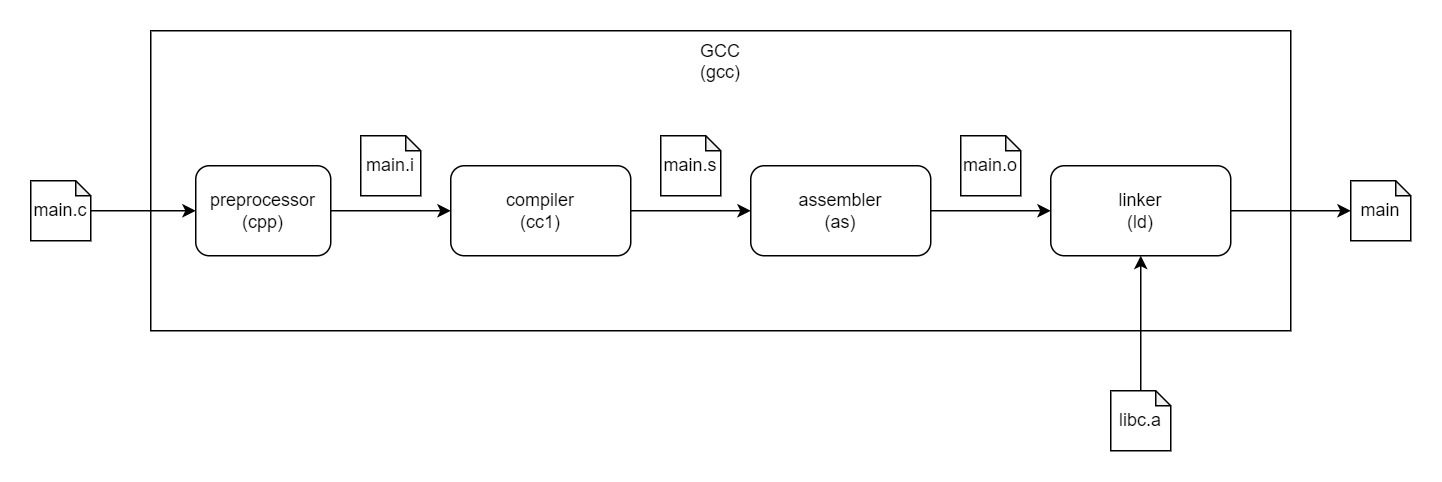
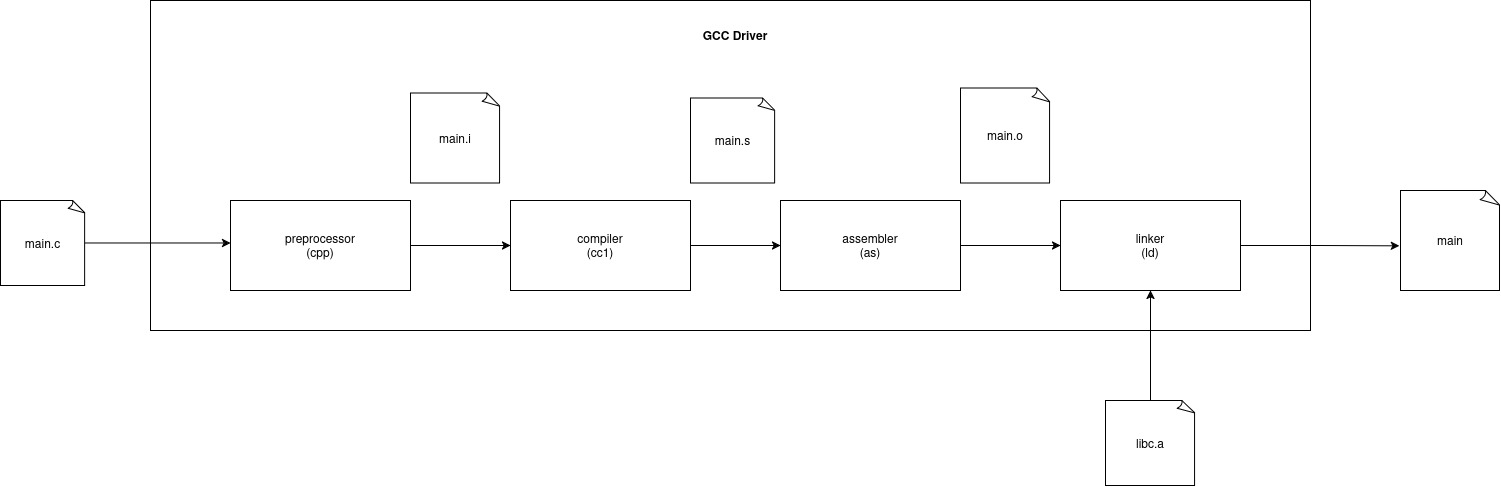
Minor image update

diff --git a/doc/ghid.tex b/doc/ghid.tex
@@ -46,13 +46,13 @@ a incarca fisierul de trace si a începe simularea.
 \begin{figure}[H]
 	\centering
 	\includegraphics[width=0.7\textwidth]{images/dark_ui.png}
-	\caption{Interfata grafica setat pe modul Dark}
+	\caption{Interfata grafica setata pe modul Dark}
 \end{figure}
 
 \begin{figure}[H]
 	\centering
 	\includegraphics[width=0.7\textwidth]{images/light_ui.png}
-	\caption{Interfata grafica setat pe modul Light}
+	\caption{Interfata grafica setata pe modul Light}
 \end{figure}
 
 \begin{figure}[H]
@@ -95,28 +95,106 @@ Din perspectiva utilizatorului este de ajuns pentru folosi fisierul antet \texti
 #include "bp.h"
 \end{verbatim}
 
-Stiind acum acestea se pune problema de a rula simulator ce incorporeaza predictorul de salturi dezvoltat de noi. Spre norocul utilizatorului, acesta are de asemenea la dispozitia acestuia un mic script in BASH ce compileaza si ruleaza cu o configuratie implicit selectata.
+Stiind acum acestea se pune problema de a rula simulator ce incorporeaza predictorul de salturi dezvoltat de noi. Spre norocul utilizatorului, acesta are de asemenea la dispozitia sa un mic script in BASH ce compileaza si ruleaza cu o configuratie implicit selectata.
 
 \begin{verbatim}
 	#!/bin/bash
 	
-	if [ -z "$1" ]; then
+	# Usage:
+	#   ./gen                        - configure (cmake)
+	#   ./gen b                      - build
+	#   ./gen <benchmark> r          - run default config for benchmark
+	#   ./gen <benchmark> c1..c9     - run named config for benchmark
+	#   ./gen <benchmark> all        - run all configs for benchmark
+	#
+	# Benchmarks: applu | cc1 | mgrid | compress | ijpeg
+	#
+	# OGHEL predictor params: -bpred:oghel <num_tables> <table_size> <counter_len>
+	# Defaults:               num_tables=7  table_size=2048  counter_len=4
+	
+	BASE_CMD="./build/sim-bpred -max:inst 500000000 -nice 1 -bpred oghel"
+	
+	# ---- benchmark selection ----
+	BENCHMARK="${1}"
+	case "$BENCHMARK" in
+	applu)    SS_FILE="applu.ss";       IN_FILE="applu.in"   ;;
+	cc1)      SS_FILE="cc1.ss";         IN_FILE="1stm.i"   ;;
+	mgrid)    SS_FILE="mgrid.ss";       IN_FILE="mgrid.in"   ;;
+	compress) SS_FILE="compress95.ss";  IN_FILE="bigtest.in" ;;
+	ijpeg)    SS_FILE="ijpeg.ss";       IN_FILE="vgio.ppm"     ;;
+	b)
+	cmake --build build -j 12
+	exit 0
+	;;
+	"")
 	rm -rf build
 	cmake -S . -B build -G "Unix Makefiles"
-	elif [[ "$1" == "b" ]]; then
-	cmake --build build -j 12
-	elif [[ "$1" == "r" ]]; then
-	./build/sim-bpred \
-	  -redir:sim applu_simout.res \
-	  -redir:prog applu_progout.res \
-	  -max:inst 500000000 -nice 1 \
-	  -bpred oghel \
-	  ./inputs/ss_files/applu.ss \
-	  < ./inputs/in_files/applu.in
+	exit 0
+	;;
+	*)
+	echo "Unknown benchmark: $1"
+	echo "Usage: $0 [applu|cc1|mgrid|compress|ijpeg] [r|c1..c9|all]"
+	exit 1
+	;;
+	esac
+	
+	INPUT="./inputs/ss_files/${SS_FILE}"
+	STDIN="./inputs/in_files/${IN_FILE}"
+	mkdir -p "./results/${BENCHMARK}"
+	
+	run_config() {
+		local tag="$1"
+		local num_tables="$2"
+		local table_size="$3"
+		local counter_len="$4"
+		echo "=== ${BENCHMARK}/${tag}: num_tables=$num_tables  table_size=$table_size  counter_len=$counter_len ==="
+		$BASE_CMD \
+		-bpred:oghel $num_tables $table_size $counter_len \
+		-redir:sim  "./results/${BENCHMARK}/${tag}_simout.res" \
+		-redir:prog "./results/${BENCHMARK}/${tag}_progout.res" \
+		"$INPUT" < "$STDIN"
+	}
+	
+	CMD="${2:-r}"
+	
+	case "$CMD" in
+	r)   run_config default 7 2048 4 ;;
+	# ---------- named configurations ----------
+	#                       num_tables  table_size  counter_len
+	c1)  run_config c1   4   512   3 ;;  # min tables, small table, short counters
+	c2)  run_config c2   4  2048   4 ;;  # min tables, default size
+	c3)  run_config c3   7   512   3 ;;  # default tables, small table, short counters
+	c4)  run_config c4   7  2048   4 ;;  # default (baseline)
+	c5)  run_config c5   7  2048   5 ;;  # default tables/size, long counters
+	c6)  run_config c6   7  8192   4 ;;  # default tables, larger table
+	c7)  run_config c7  12  2048   4 ;;  # max tables, default size
+	c8)  run_config c8  12  8192   4 ;;  # max tables, larger table
+	c9)  run_config c9  12  8192   5 ;;  # max tables, larger table, long counters
+	all)
+	for cfg in c1 c2 c3 c4 c5 c6 c7 c8 c9; do
+	"$0" "$BENCHMARK" "$cfg"
+	done
+	;;
+	*)
+	echo "Unknown command: $CMD"
+	echo "Usage: $0 [applu|cc1|mgrid|compress|ijpeg] [r|c1..c9|all]"
+	exit 1
+	;;
+	esac
+	elif [[ "$1" == "all" ]]; then
+	for cfg in c1 c2 c3 c4 c5 c6 c7 c8 c9; do
+	"$0" "$cfg"
+	done
+	
+	else
+	echo "Unknown option: $1"
+	echo "Usage: $0 [b|r|c1..c9|all]"
+	exit 1
 	fi
+	
 \end{verbatim}
 
-Daca ar fi sa analizam un pic acest script vom putea observa ca acesta asteapta un argument pozitional la intrare (adica argument care este separat logic de catre celelalte prin pozitionarea acestuia in comanda intreaga de excutat; a se face contrast cu argumentele bazate pe flag.), acestuia putand fie "b" (de la \textit{build}) pentru a compila fie "r" (de la \textit{run}) pentru a rula. In functie de optiunea selectata logica corespunzatoare va fi executata.
+Daca ar fi sa analizam un pic acest script vom putea observa ca acesta asteapta argumente pozitionale la intrare (adica argumente care sunt separate logic intre ele prin pozitionarea acestuia in cadrul comanzii intreagi de excutat; a se face contrast cu argumentele bazate pe flag.).Daca niciunul nu este pasat scriptului, atunci acesta implicit foloseste CMake pentru a general fisierele necesare compilarii, compilare ce va avea loc daca utilizatorul introduce optiunea "b" (de la \textbf{build}). Pentru a rula simularea in sine se poate alege una dintre cele noua configuratii predefinite ce tin de numarul tabelelor, marimea unei tabele si dimensiunea contorului aferent unei tabele. Mai multe detalii despre acestea vor fi oferita in capitolul urmator.
 
 Lansand din linia de comanda programul \textit{sim-bpred} fara niciun argument vom fi intampinati de urmatorul mesaj ajutator care evidentiaza printre altele si optiunile valabile pentru predictorul OGEHL:
 
@@ -310,3 +388,9 @@ de executie revine interfetei cu utilizatorul.
 \end{figure}
 
 Fiind acum familiar despre cum a fost aplicatia proiectata initial, este momentul sa discutam despre masurile luate pentru integrarea acesteia. Daca este sa ne aducem aminte de arhitectura SimpleSim vom observa usor ca predictorul nostru de ramificatii este situat la nivelul cel mai de jos, adica la nivelul Performance Core (responsabil pentru redarea comportamentului executiei micro-arhitecturii procesorului).Astfel, componenta grafica implementata de noi nu ne mai este folositoare, caci SimpleSim ofera deja utilizatorului o anumita interfata cu care poate lucra. Nemaifiind nevoie de un GUI evident ca putem simplifica structura si mai mult prin eliminarea firelor de executie, ramanand astfel doar cu logica ce implementeaza comportamentul unui predictor tip O-GEHL.
+
+\begin{figure}[H]
+	\centering
+	\includegraphics[width=0.7\textwidth]{images/sim_drawio.png}
+	\caption{OpenOGEHL ca parte a SimpleScalar}
+\end{figure}

diff --git a/doc/configurare.tex b/doc/configurare.tex
@@ -36,15 +36,23 @@ Ceilalti parametri interni ai predictorului ($\alpha = 2$, $L_1 = 2$,
 $\theta$ initial $= N$) sunt fixati la compilare in
 \texttt{bp\_defines.h} si nu sunt expusi in interfata grafica, deoarece
 valorile lor sunt optime pentru majoritatea aplicatiilor conform
-literaturii de specialitate.
+literaturii de specialitate\cite{seznec2004gehl}. Dupa ordine parametrii sunt:
+
+\begin{itemize}
+	\item $\alpha$: Ponderea asociata fiecarui contor
+	\item $L_i$: Lungimea istoricului folosită pentru a adresa tabela $i$. Aceasta e definită ca o serie geometrică având forma:
+	\[
+	L(i) = \alpha^{i-1} \cdot L(1)
+	\]
+	\item $\theta$: Prag folosit in comparare cu suma algebrica a contoarelor
+\end{itemize}
 
 % -------------------------------------------------- Software
 \subsection{Toolchain software}
 \label{sec:toolchain}
 
 Proiectul este structurat in doua componente independente, fiecare cu
-propriul build target CMake: aplicatia principala si suita de unit
-tests.
+propriul build target CMake: aplicatia principala si suita de teste de unitate.
 
 \subsubsection*{Aplicatia principala}
 
@@ -55,14 +63,14 @@ interfata grafica:
     \item \textbf{raylib} --- librarie grafica multiplatforma scrisa in C,
           care ofera suport pentru ferestre, randare 2D/3D si gestionarea
           input-ului. In proiect este folosita ca dependenta de baza,
-          linkuita static din \texttt{libs/raylib/lib/libraylib.a}.
+          link-editat static din \texttt{libs/raylib/lib/libraylib.a}. Link descarcare:  \url{https://https://github.com/raysan5/raylib}
     \item \textbf{raygui} --- biblioteca \cite{raygui} pentru UI in mod imediat (\textit{immediate
           mode GUI}) construita peste raylib, folosita pentru a crea
           toate controalele interfetei (campuri de text, butoane, liste).
-          Este inclusa ca fisier header-only direct in sursa.
+          Este inclusa ca fisier header-only direct in sursa. Link descarcare: \url{https://github.com/raysan5/raygui}
 \end{itemize}
 
-Alegerea acestor librarii a fost motivata de faptul ca libraria
+Alegerea acestor biblioteci a fost motivata de faptul ca libraria
 predictorului OGEHL este scrisa in C, astfel incat integrarea unui
 toolkit grafic tot in C era solutia cea mai simpla si fara dependente
 suplimentare de runtime. Build-ul aplicatiei este gestionat cu

diff --git a/doc/proj.tex b/doc/proj.tex
@@ -37,7 +37,7 @@
 	% Coordinator aligned to the left
 	\begin{flushleft}
 		{\Large \textbf{Coordonator științific laborator:}}\\[0.2cm]
-		{\Large prof. drd. ing. Adrian Florea}
+		{\Large prof. dr. ing. Adrian Florea}
 	\end{flushleft}
 
 	\vfill